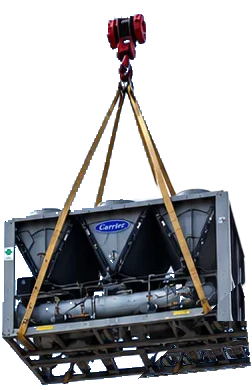
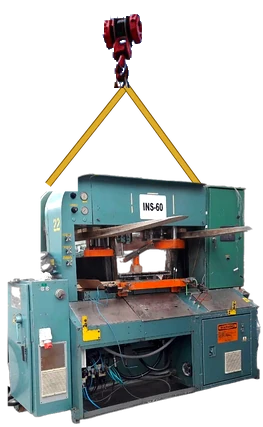
Hero: la grúa levanta una troqueladora, con zoom leve y tramo de scroll corto
- La carga ahora es una troqueladora recortada de una foto real, colgada del gancho
  original con eslingas dibujadas
- En lugar de balancearse, la carga hace un zoom in / zoom out leve desde el gancho
- El hero queda fijo solo ~35 % del alto de pantalla (unos dos movimientos de scroll)

diff --git a/src/scripts/onepage.ts b/src/scripts/onepage.ts
@@ -2,7 +2,7 @@
  * Animaciones del inicio one-page.
  * - Lenis: scroll suave.
  * - GSAP ScrollTrigger: parallax, scroll horizontal de servicios, contadores, pasos, rutas y galería.
- * - Izaje del hero: el scroll sube la carga recortada de la foto, con balanceo de péndulo.
+ * - Izaje del hero: el scroll sube la carga recortada de la foto, con un zoom leve.
  * Con "reducir movimiento" activado no hay scroll suave, ni pin, ni parallax.
  */
 import { gsap } from 'gsap';
@@ -40,38 +40,41 @@ $$<HTMLAnchorElement>('a[data-scroll]').forEach((a) => {
 });
 
 /* ---------- Izaje del hero ---------- */
-// La foto de la grúa está separada en dos capas: el fondo y la carga (gancho + eslingas + chiller).
-// Mientras el hero está fijo, el scroll sube la carga; los cables se acortan con ella.
+// La foto de la grúa está separada en dos capas: el fondo y la carga (gancho + eslingas + máquina).
+// Mientras el hero está fijo (un tramo corto de scroll), la carga sube y los cables se acortan.
+// En vez de balancearse, la carga "respira": un zoom in / zoom out leve desde el gancho.
 const hero = $('[data-hero]');
 const load = $<SVGGElement>('#lift-load');
 const liftCables = $$<SVGLineElement>('.lift-cable');
+/** Recorrido de scroll con el hero fijo: unos dos movimientos de rueda. */
+const heroPin = () => Math.round(Math.max(240, window.innerHeight * 0.35));
 
 if (hero && load) {
-  const HOOK = { x: 676, y: 457 }; // punto de giro: el gancho, en coordenadas de la foto
+  const HOOK = { x: 676, y: 457 }; // gancho, en coordenadas de la foto
   const START = 430; // carga abajo, frente a la fachada
   const INTRO = 360; // tras el arranque automático
   const END = -190; // carga arriba, cerca de la punta de la pluma
 
   let progress = 0;
   let dy = START;
-  let angle = 0;
-  let angVel = 0;
+  let scale = 1;
   const start = performance.now();
   let last = start;
 
   const draw = () => {
-    load.setAttribute('transform', `translate(0 ${dy.toFixed(2)}) rotate(${angle.toFixed(3)} ${HOOK.x} ${HOOK.y})`);
+    const s = scale.toFixed(4);
+    load.setAttribute('transform', `translate(0 ${dy.toFixed(2)}) translate(${HOOK.x} ${HOOK.y}) scale(${s}) translate(${-HOOK.x} ${-HOOK.y})`);
     liftCables.forEach((c) => c.setAttribute('y2', (HOOK.y + dy).toFixed(2)));
   };
 
   if (reduce) {
-    dy = 0; // posición original de la foto
+    dy = 0;
     draw();
   } else {
     ScrollTrigger.create({
       trigger: hero,
       start: 'top top',
-      end: () => `+=${Math.round(window.innerHeight * 1.1)}`,
+      end: () => `+=${heroPin()}`,
       pin: true,
       onUpdate: (self) => { progress = self.progress; },
     });
@@ -84,13 +87,12 @@ if (hero && load) {
       const eased = 1 - Math.pow(1 - intro, 3);
       const target = START + (INTRO - START) * eased + (END - INTRO) * progress;
       const prev = dy;
-      dy += (target - dy) * Math.min(dt * 4, 1);
+      dy += (target - dy) * Math.min(dt * 5, 1);
 
-      // Péndulo amortiguado: los cambios bruscos de velocidad hacen oscilar la carga
-      const vel = (dy - prev) / Math.max(dt, 0.001);
-      angVel += (-7 * angle - 1.6 * angVel + vel * 0.004) * dt;
-      angle += angVel * dt * 10 + Math.sin(now / 1300) * 0.0035 * eased;
-      angle = Math.max(-4, Math.min(4, angle));
+      // Zoom leve: ±3 % en ciclos de ~4,5 s, más un pequeño empuje al subir rápido
+      const vel = Math.abs(dy - prev) / Math.max(dt, 0.001);
+      const targetScale = 1 + 0.03 * Math.sin((now / 4500) * Math.PI * 2) * eased + Math.min(vel * 0.00005, 0.03);
+      scale += (targetScale - scale) * Math.min(dt * 3, 1);
 
       draw();
       if (hero.getBoundingClientRect().bottom > -200) requestAnimationFrame(tick);
@@ -123,7 +125,7 @@ mm.add({ motion: '(prefers-reduced-motion: no-preference)', desktop: '(min-width
   gsap.from('[data-intro]', { y: 40, opacity: 0, duration: 1.1, ease: 'power3.out', stagger: 0.12, delay: 0.15 });
 
   // Parallax del hero
-  gsap.fromTo('[data-ghost]', { xPercent: 0 }, { xPercent: -25, ease: 'none', scrollTrigger: { trigger: '[data-hero]', start: 'top top', end: () => `+=${Math.round(window.innerHeight * 1.1)}`, scrub: true } });
+  gsap.fromTo('[data-ghost]', { xPercent: 0 }, { xPercent: -25, ease: 'none', scrollTrigger: { trigger: '[data-hero]', start: 'top top', end: () => `+=${heroPin()}`, scrub: true } });
 
   // Títulos y bloques
   $$('[data-up]').forEach((el) => {
